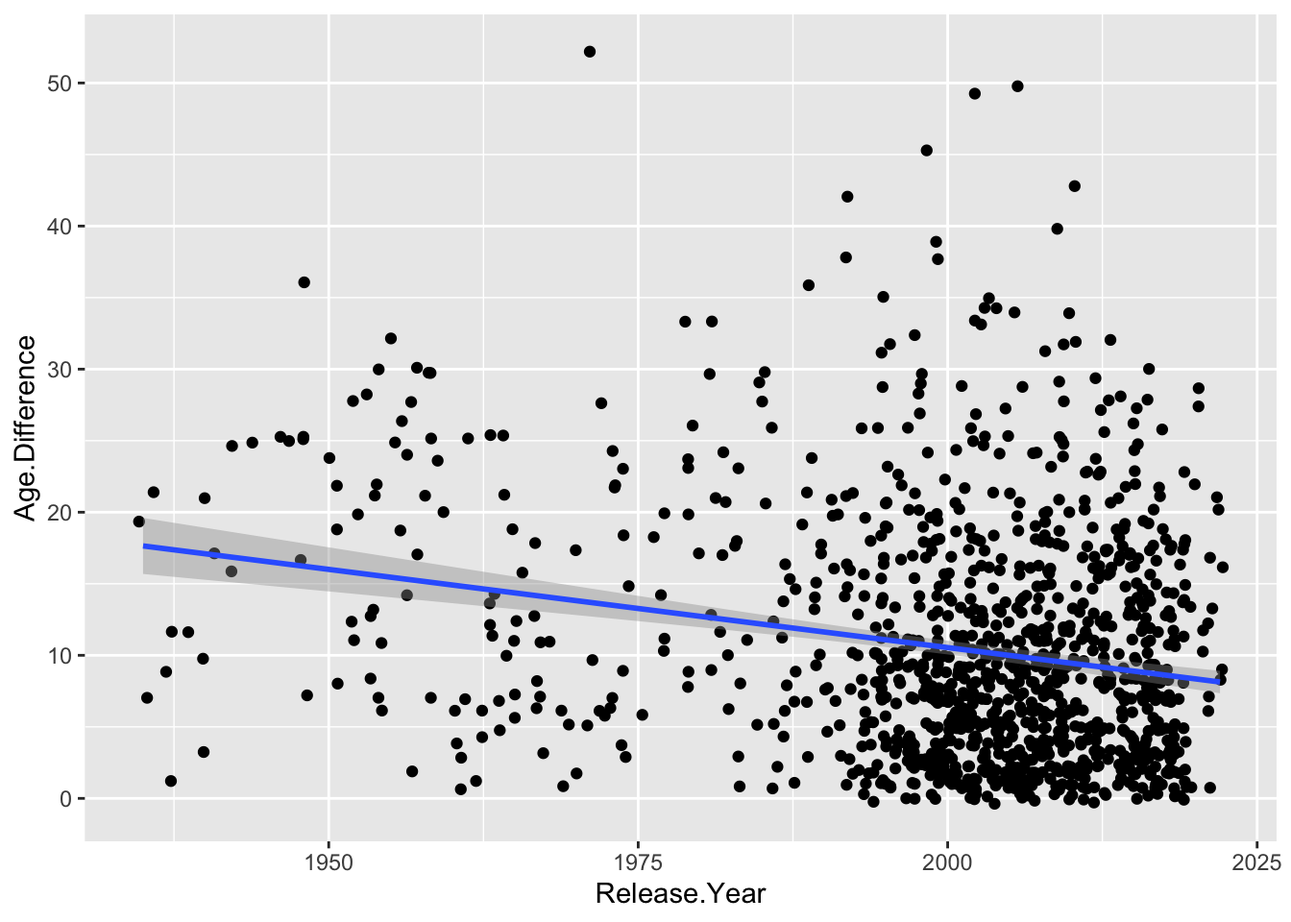
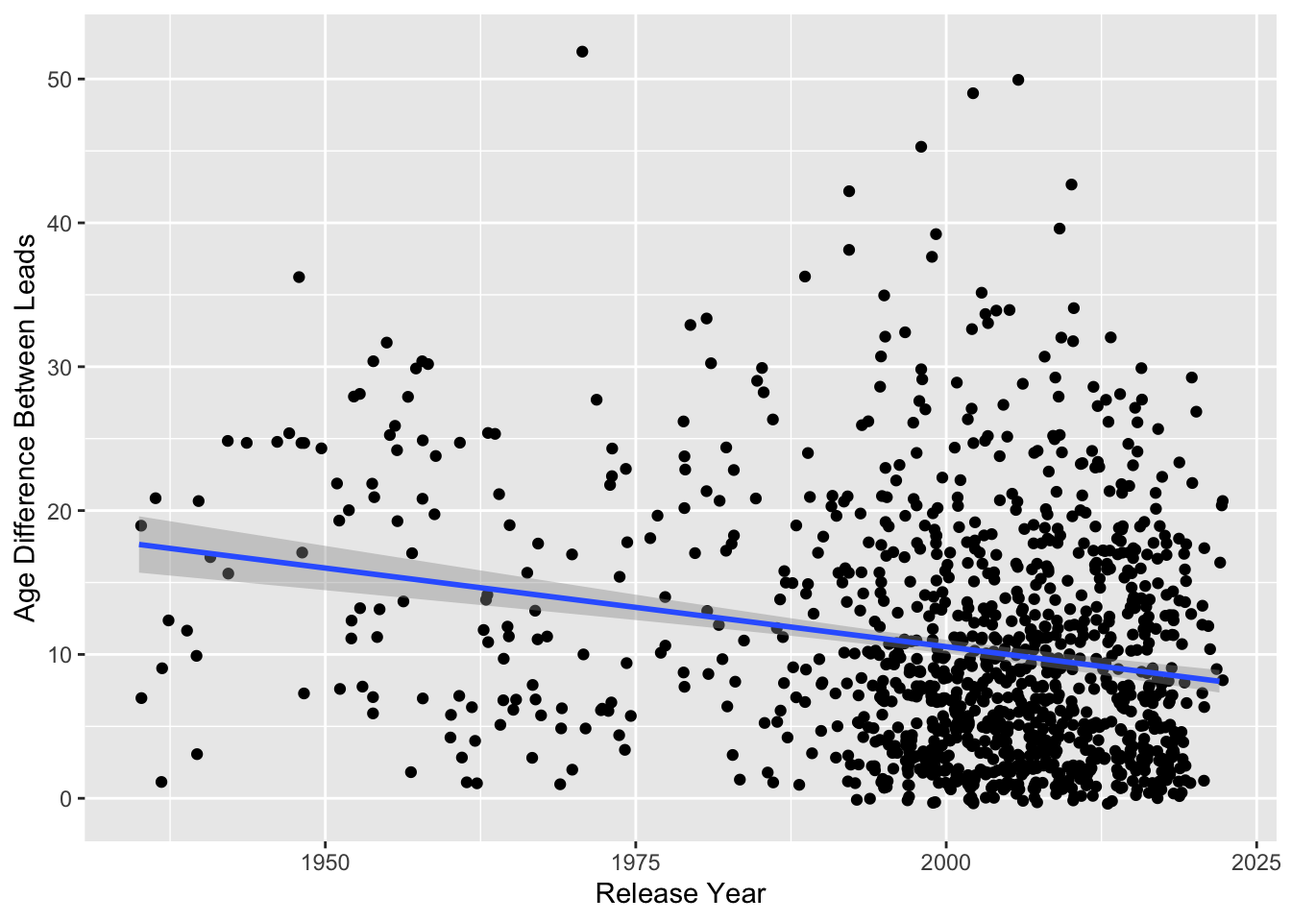
Touched up p05

diff --git a/docs/p05.html b/docs/p05.html
@@ -368,7 +368,9 @@ change over time:</p>
 <pre class="r"><code>movies %&gt;%
   ggplot(aes(x = Release.Year, y = Age.Difference)) + 
   geom_jitter() +
-  geom_smooth(method = &quot;lm&quot;)</code></pre>
+  geom_smooth(method = &quot;lm&quot;) +
+  labs(x = &quot;Release Year&quot;,
+       y = &quot;Age Difference Between Leads&quot;)</code></pre>
 <pre><code>## `geom_smooth()` using formula = &#39;y ~ x&#39;</code></pre>
 <p><img src="p05_files/figure-html/gap-over-time-1.png" width="672" /></p>
 <p>It looks like I was right! To follow down this road, let’s put
@@ -413,14 +415,18 @@ tidy(m_diff_year_gender)</code></pre>
 <pre class="r"><code>movies %&gt;%
   ggplot(aes(x = Release.Year, y = Age.Difference, color = Actor.1.Gender)) + 
   geom_jitter() +
-  geom_smooth(method = &quot;lm&quot;, fullrange = TRUE, se = FALSE)</code></pre>
+  geom_smooth(method = &quot;lm&quot;, fullrange = TRUE, se = FALSE) +
+  labs(x = &quot;Release Year&quot;,
+       y = &quot;Age Difference Between Leads&quot;)</code></pre>
 <pre><code>## `geom_smooth()` using formula = &#39;y ~ x&#39;</code></pre>
 <p><img src="p05_files/figure-html/lm-add-gender-1.png" width="672" /></p>
 <p>Looks like I wasn’t quite right. Descriptively, the older member of
 the pair being a woman does predict a smaller age gap, but neither this
 slope nor the interaction term are significant. Additionally, the
 adjusted R-squared basically doesn’t increase at all, so we’re clearly
-not explaining much more variance.</p>
+not explaining much more variance. This is probably because there just
+aren’ that many movies where the woman is the older member of a pair of
+leads.</p>
 <p>Finally, let’s replace the gender of the older member of the pair
 with the age of the older member of the pair. This model is bound to
 increase the amount of variance we can explain; large age gaps are only
@@ -451,8 +457,8 @@ tidy(m_diff_year_age)</code></pre>
   )) %&gt;%
   config(displayModeBar = FALSE)
 p</code></pre>
-<div class="plotly html-widget html-fill-item-overflow-hidden html-fill-item" id="htmlwidget-537e9be617acf20221d3" style="width:672px;height:480px;"></div>
-<script type="application/json" data-for="htmlwidget-537e9be617acf20221d3">{"x":{"visdat":{"65b5f2e10c4":["function () ","plotlyVisDat"]},"cur_data":"65b5f2e10c4","attrs":{"65b5f2e10c4":{"x":{},"y":{},"z":{},"marker":{"size":3,"color":"lightgray","alpha":0.5,"line":{"color":"gray","width":2}},"alpha_stroke":1,"sizes":[10,100],"spans":[1,20],"type":"scatter3d","mode":"markers","inherit":true}},"layout":{"margin":{"b":40,"l":60,"t":25,"r":10},"scene":{"xaxis":{"title":"Release Year"},"yaxis":{"title":"Age Difference"},"zaxis":{"title":"Older Actor Age"}},"hovermode":"closest","showlegend":false},"source":"A","config":{"modeBarButtonsToAdd":["hoverclosest","hovercompare"],"showSendToCloud":false,"displayModeBar":false},"data":[{"x":[1971,2006,2002,1998,2010,1992,2009,1999,1992,1999,1989,1948,1995,2003,2004,2003,2005,2010,1979,1981,2002,2003,1955,1997,1995,2010,2009,2013,2008,1995,1985,1998,1981,1957,1958,2016,1954,1958,2009,1985,2012,1998,2020,1995,2006,2001,1998,1985,1953,2016,2009,2013,1952,1972,1957,2014,2015,1998,2002,2012,2005,2020,1997,2013,2015,2002,1956,1994,1993,1979,2017,1986,2009,1963,2009,1947,1942,1948,2015,2003,2005,2003,2002,1948,1946,1961,1964,1955,1944,1958,2009,2001,2007,2004,2007,2012,1982,1950,1989,2015,1973,1979,1959,2009,1998,1956,2015,2012,2012,2019,1979,1983,1995,2012,2011,2008,1996,1974,2011,2000,1954,2015,1973,1973,1951,2017,2014,2020,2001,1996,1985,2017,1991,2006,2013,2014,1981,1995,1992,2009,2011,2004,1989,1936,1992,1964,1954,1995,1958,2022,1940,2001,1982,1997,2005,1999,2008,1993,2011,1991,1979,1959,2006,1998,1999,1991,1952,2008,1997,2022,2017,1977,2001,2010,2011,1999,1951,1956,2017,2014,1998,2006,2014,1995,2016,2009,2012,1935,2008,2007,2016,1995,2001,2002,1988,1965,2014,2009,2017,2019,2002,2018,2014,1994,1967,2008,1983,2007,1990,2008,2004,1999,2018,1999,1998,1983,2003,2014,2002,1976,1974,2011,1999,1995,2009,2008,2019,2013,1957,2015,1982,2004,2014,2021,1995,2018,1970,2019,1990,2015,2014,2015,2013,1948,1980,2012,2002,1999,2015,1998,1941,2003,2016,2011,2017,2000,2013,1997,1996,2012,2013,2015,1942,1992,2008,1995,2019,2007,2003,2003,1993,2008,2013,1991,2000,2012,2013,2006,1992,2015,2007,1987,2022,2008,2006,2012,1966,2013,2004,2002,2000,2016,1999,1987,1995,2015,2004,2002,2017,2012,1989,2007,2019,1997,2014,2008,2012,2010,2000,1992,1974,2008,2016,1988,1963,1998,2019,2019,2009,1992,2007,2006,2006,2016,1995,1963,1956,2015,2016,1989,2006,1999,2005,1977,2015,1995,2000,1993,2018,2000,2016,1987,2002,2011,2018,2001,1954,2015,2012,2018,2015,2002,2003,2020,2004,1996,1981,1998,2002,2015,2004,2003,2016,2013,2021,1953,1993,2016,2011,2006,2007,2006,2008,2018,1999,1999,1989,2018,2000,2015,2010,1967,2002,2016,2003,2007,2010,2006,2013,1986,1963,1939,1995,2007,2021,2016,2011,2011,1965,2010,1952,2021,2005,2004,1994,1937,2008,2012,1999,2016,2016,2017,2009,2018,2008,1982,2009,2013,2006,2018,1977,1987,2018,2001,1997,2006,1996,1963,2010,2007,1984,2011,2003,1999,2001,2003,2016,2005,1954,2001,2008,2008,1952,2012,2008,2018,2013,2001,1998,2011,1997,2007,2001,2002,2013,2007,2009,2016,1968,2013,1965,1997,2015,1995,2004,2004,2009,1967,2019,2008,2015,2008,1999,1995,2015,2002,1971,2012,1999,1998,1994,1990,2007,2003,1996,2003,1992,2004,2008,2013,2021,1964,1994,1940,2000,1977,2016,2004,2006,2002,2006,2004,1982,1996,2000,1994,2010,2014,1996,2006,2009,2011,2005,1993,2013,2004,2005,1937,2006,2001,1979,2008,1997,2016,2001,2001,1988,2017,2004,2006,2018,2008,2022,2009,2001,1995,2009,2009,2005,2010,1999,2013,2003,1997,1996,1999,2010,1981,1995,2003,2006,2002,1989,2016,2006,1974,2017,2008,1998,2014,1998,1997,2007,1998,2000,2009,2001,2017,2004,2003,2019,2013,1995,2013,2009,2011,2015,2015,2007,2016,1987,1990,2007,2016,1996,1953,2003,1993,2017,1994,2008,2003,1999,2012,1979,1998,1990,1983,1998,2007,2003,2005,2017,2000,2000,2002,2002,2018,1996,1951,1992,2005,2002,2012,2008,2009,2014,2006,2013,1998,1999,2013,1995,2022,2001,1967,1999,2018,2018,1999,2009,2002,1995,2018,2003,2016,1935,2000,1958,2006,1995,1995,1997,1997,2000,1991,2018,1988,2014,2014,2017,2015,1999,1995,1964,2014,1967,2017,2003,2009,1954,2021,2008,2006,2014,2001,2016,2004,2019,2005,2003,2007,2002,2008,2000,1993,1999,1999,2003,2000,1989,2001,2002,1948,2006,1996,2017,2008,2001,1961,2010,2016,1973,1998,1965,2000,1998,2001,1975,2002,2014,1982,2007,2011,2004,2014,1995,2001,1962,2002,2008,2009,2004,2005,2004,1960,1954,2001,2007,2007,2021,1969,2010,1987,2007,1993,2010,2008,1965,2017,2010,2001,2015,2008,2006,2007,1972,1972,1967,2006,2016,2010,2000,1973,2008,2005,2001,2004,2008,1985,2013,2018,2002,1999,1999,2012,1998,2017,2002,2016,2017,2005,2004,2003,2018,1990,2010,1994,2005,2007,2014,2008,1964,2009,2001,2001,2000,2004,2005,1991,2014,1971,2001,2012,1999,2003,2003,2002,1993,1969,2007,2001,2017,2009,2002,1996,1993,2002,2018,2012,2004,2017,2011,2012,2006,2004,2001,2000,2016,1999,2013,1986,2011,1994,2004,2017,2009,2019,2007,2011,1995,1995,2002,2000,2004,1999,2004,2015,2005,1997,1997,2009,2015,2016,1997,2002,1974,2015,1962,2018,2009,1997,1996,2000,2016,2007,2011,2009,2007,2007,1960,2010,2008,2000,2019,2001,1997,2018,2007,2008,2018,1997,1997,2011,2015,2011,2002,2018,2018,2002,1994,2003,1987,1996,1995,1997,2012,2008,2002,2005,1993,2015,2009,2000,1974,2009,1999,2012,2007,1996,2016,2015,1998,2004,2000,2000,2016,2013,1998,1999,1999,1997,2008,2003,2016,2009,1940,1997,1997,1999,2005,2016,2016,1997,2006,2007,2011,2007,1961,2012,1997,1989,2008,2016,1999,2012,2003,2014,2018,1996,2013,2016,2017,1999,2018,1983,1991,2007,2014,1999,1998,2018,1997,2018,2005,2015,2000,2014,2008,2006,2017,2014,2018,2012,1967,2012,1999,2017,2018,1999,2012,2015,2008,2008,2019,2005,1992,2018,2003,1999,2014,2018,1999,1994,2019,2014,2003,2018,1997,2016,1999,2011,2005,2005,2011,2011,2007,1993,2016,1986,1999,2010,1994,2007,2001,2016,2015,1994,2011,2002,2011,2005,1997,2003,2015,2006,2010,1957,2001,2000,2000,2010,1970,2003,1999,2003,2012,2018,2005,1998,2008,1998,1992,2006,2019,2018,2018,2000,2004,1996,2007,2007,2011,2006,2015,2010,1997,1999,2004,2014,2014,2009,2009,2012,1999,2009,2011,2006,2008,2017,2010,2005,2002,2016,2009,1986,2001,2001,2008,2017,2007,1995,1997,1961,2017,2005,2005,2011,2000,1988,2004,1962,2005,1995,1995,2017,2014,2001,2009,2005,2021,2010,1993,2007,1995,2017,2004,2010,2019,2000,2017,2016,2002,1969,2001,2005,2002,2000,2014,1983,1995,2005,2018,2002,2009,1937,2007,2002,2004,2006,2006,2011,2007,1992,2015,2006,2002,2014,1999,2012,1997,1995,2011,2004,2002,2017,2020,2017,2015,2009,2019,1999,2017,2018,2013,1999,2010,2002,2002,2007,2002,1997,2009,2002,2012,2016,2003,2011,2010,2002,1997,2004,1994,2019,1993,2006,2013,2006,2019,2007,2015],"y":[52,50,49,45,43,42,40,39,38,38,36,36,35,35,34,34,34,34,33,33,33,33,32,32,32,32,32,32,31,31,30,30,30,30,30,30,30,30,29,29,29,29,29,29,29,29,28,28,28,28,28,28,28,28,28,28,27,27,27,27,27,27,26,26,26,26,26,26,26,26,26,26,25,25,25,25,25,25,25,25,25,25,25,25,25,25,25,25,25,25,25,24,24,24,24,24,24,24,24,24,24,24,24,24,24,24,23,23,23,23,23,23,23,23,23,23,23,23,23,22,22,22,22,22,22,22,22,22,22,22,21,21,21,21,21,21,21,21,21,21,21,21,21,21,21,21,21,21,21,21,21,21,21,21,21,20,20,20,20,20,20,20,20,20,20,20,20,20,20,20,20,20,20,20,20,19,19,19,19,19,19,19,19,19,19,19,19,19,19,19,19,19,19,19,19,19,19,18,18,18,18,18,18,18,18,18,18,18,18,18,18,18,18,18,18,18,18,18,18,18,18,18,18,18,18,18,18,17,17,17,17,17,17,17,17,17,17,17,17,17,17,17,17,17,17,17,17,17,17,17,17,17,17,17,17,17,17,17,17,16,16,16,16,16,16,16,16,16,16,16,16,16,16,16,16,16,16,16,16,16,16,16,16,16,16,16,16,16,16,16,16,16,15,15,15,15,15,15,15,15,15,15,15,15,15,15,15,15,15,15,15,15,15,15,14,14,14,14,14,14,14,14,14,14,14,14,14,14,14,14,14,14,14,14,14,14,14,14,14,14,14,14,14,14,14,13,13,13,13,13,13,13,13,13,13,13,13,13,13,13,13,13,13,13,13,13,13,13,13,13,13,13,13,13,13,13,13,13,13,13,13,13,12,12,12,12,12,12,12,12,12,12,12,12,12,12,12,12,12,12,12,12,12,12,12,12,12,12,12,12,12,12,12,12,12,12,12,12,11,11,11,11,11,11,11,11,11,11,11,11,11,11,11,11,11,11,11,11,11,11,11,11,11,11,11,11,11,11,11,11,11,11,11,11,11,11,11,11,11,11,11,11,11,11,11,11,11,11,11,10,10,10,10,10,10,10,10,10,10,10,10,10,10,10,10,10,10,10,10,10,10,10,10,10,10,10,10,10,10,10,10,10,10,10,10,10,10,10,10,10,10,10,10,10,9,9,9,9,9,9,9,9,9,9,9,9,9,9,9,9,9,9,9,9,9,9,9,9,9,9,9,9,9,9,9,9,9,9,9,9,9,9,9,9,9,9,9,9,9,9,9,9,9,9,9,9,9,8,8,8,8,8,8,8,8,8,8,8,8,8,8,8,8,8,8,8,8,8,8,8,8,8,8,8,8,8,8,8,8,8,8,8,8,8,8,8,8,8,8,8,8,8,8,8,8,8,8,8,8,8,8,8,8,8,8,8,7,7,7,7,7,7,7,7,7,7,7,7,7,7,7,7,7,7,7,7,7,7,7,7,7,7,7,7,7,7,7,7,7,7,7,7,7,7,7,7,7,7,7,7,7,7,7,7,7,7,7,7,7,7,7,7,7,7,7,7,7,7,7,7,7,7,7,7,7,7,7,6,6,6,6,6,6,6,6,6,6,6,6,6,6,6,6,6,6,6,6,6,6,6,6,6,6,6,6,6,6,6,6,6,6,6,6,6,6,6,6,6,6,6,6,6,6,6,6,6,6,5,5,5,5,5,5,5,5,5,5,5,5,5,5,5,5,5,5,5,5,5,5,5,5,5,5,5,5,5,5,5,5,5,5,5,5,5,5,5,5,5,5,5,5,5,5,5,5,5,5,5,5,5,5,5,5,5,5,5,5,5,5,5,5,5,5,5,5,5,5,5,4,4,4,4,4,4,4,4,4,4,4,4,4,4,4,4,4,4,4,4,4,4,4,4,4,4,4,4,4,4,4,4,4,4,4,4,4,4,4,4,4,4,4,4,4,4,4,4,4,4,4,4,4,4,4,4,4,4,4,4,4,4,4,4,4,4,3,3,3,3,3,3,3,3,3,3,3,3,3,3,3,3,3,3,3,3,3,3,3,3,3,3,3,3,3,3,3,3,3,3,3,3,3,3,3,3,3,3,3,3,3,3,3,3,3,3,3,3,3,3,3,3,3,3,3,3,3,3,3,3,3,3,3,3,3,3,3,3,3,3,3,3,3,3,3,3,3,3,3,3,3,2,2,2,2,2,2,2,2,2,2,2,2,2,2,2,2,2,2,2,2,2,2,2,2,2,2,2,2,2,2,2,2,2,2,2,2,2,2,2,2,2,2,2,2,2,2,2,2,2,2,2,2,2,2,2,2,2,2,2,2,2,2,2,2,2,2,2,2,2,2,2,2,2,2,2,2,2,2,2,2,2,2,2,2,2,1,1,1,1,1,1,1,1,1,1,1,1,1,1,1,1,1,1,1,1,1,1,1,1,1,1,1,1,1,1,1,1,1,1,1,1,1,1,1,1,1,1,1,1,1,1,1,1,1,1,1,1,1,1,1,1,1,1,1,1,1,1,1,1,1,1,1,1,1,1,1,1,1,1,1,1,1,0,0,0,0,0,0,0,0,0,0,0,0,0,0,0,0,0,0,0,0,0,0,0,0,0,0,0,0,0,0],"z":[23,74,69,68,81,59,62,69,57,77,59,56,65,66,56,53,60,61,78,56,67,68,56,49,60,67,75,61,65,60,58,60,54,58,54,59,55,50,49,58,63,61,62,49,69,46,54,58,54,54,60,53,51,48,56,54,55,56,26,53,50,62,60,69,52,49,53,53,57,44,60,61,60,59,49,48,45,49,51,57,58,54,50,48,47,60,53,51,45,50,58,58,53,45,57,49,47,51,47,51,46,52,52,54,62,51,79,47,58,52,52,56,53,50,57,46,47,52,48,51,47,47,46,46,48,55,44,49,51,60,58,43,54,52,32,52,54,52,58,51,45,40,43,47,49,56,46,56,57,47,51,71,57,44,45,40,46,46,42,46,52,55,17,47,44,49,40,46,42,46,64,50,47,60,55,19,39,44,46,45,37,64,42,48,48,49,44,43,44,49,45,65,43,53,62,43,51,49,48,55,39,47,58,39,40,48,56,37,41,40,43,57,54,50,48,43,39,64,26,46,47,43,46,57,62,46,58,49,53,48,40,40,59,45,42,60,41,45,43,51,46,47,51,44,37,54,42,36,47,48,36,53,45,43,27,45,45,50,39,51,39,46,43,44,65,46,47,41,43,43,42,59,46,49,46,50,41,38,53,39,44,43,42,40,38,46,36,39,41,53,58,38,51,35,52,47,37,51,26,38,43,47,45,43,39,37,37,49,37,34,47,18,62,46,39,40,56,51,38,48,37,39,39,44,48,33,41,41,45,36,44,44,50,35,44,51,26,31,44,36,40,41,34,41,42,50,45,40,40,37,59,49,36,37,42,37,46,40,48,38,36,57,57,35,49,37,41,37,41,37,42,37,40,49,44,46,41,66,56,38,47,37,37,53,48,35,39,38,43,39,33,38,55,42,52,60,45,34,41,37,32,37,42,40,33,42,56,41,36,45,45,49,33,47,56,45,48,50,42,43,42,35,29,38,26,45,35,33,46,38,42,55,39,44,46,32,37,31,36,31,40,54,40,44,54,57,35,37,49,40,33,43,34,22,39,42,48,39,38,39,35,44,37,42,33,32,40,37,36,40,46,42,37,39,44,33,41,45,38,33,38,38,43,43,39,34,57,37,42,58,46,21,39,33,40,41,35,38,39,36,38,30,46,34,36,32,46,47,35,32,41,25,37,30,37,38,47,40,28,34,54,34,47,56,41,41,33,31,32,39,45,42,51,34,31,36,47,51,38,34,35,30,30,34,31,33,55,39,32,66,41,35,40,37,36,38,30,37,38,33,32,44,42,34,27,41,22,53,20,32,45,31,36,28,57,31,34,48,35,45,35,27,41,40,32,40,27,43,35,33,47,26,34,32,41,35,36,40,37,41,26,27,38,47,41,34,41,27,27,52,37,43,34,38,39,45,49,32,48,32,46,40,31,60,23,37,41,58,39,36,30,33,29,42,41,33,26,44,33,40,21,26,33,28,45,36,54,33,30,35,35,33,44,47,34,42,67,48,29,40,40,33,43,44,50,33,47,51,37,41,32,39,40,30,38,40,31,39,41,24,37,35,27,48,39,26,42,30,28,36,43,37,48,33,35,44,34,37,39,24,39,33,28,32,26,48,35,36,32,38,38,43,29,37,26,35,39,23,39,39,46,30,30,23,26,31,36,18,36,21,41,25,34,45,30,36,48,32,30,37,37,50,36,37,40,35,36,37,35,42,30,32,33,19,21,22,26,23,24,35,42,41,32,31,31,28,30,31,28,45,31,33,34,34,25,47,22,32,32,46,34,41,30,41,34,41,28,36,42,30,38,23,35,28,30,22,37,31,47,29,30,39,40,41,36,31,55,31,52,28,35,24,30,38,26,37,26,36,38,30,31,31,32,30,39,21,37,44,31,33,26,25,25,33,25,37,37,34,32,38,41,31,30,21,42,42,30,64,52,25,36,32,55,35,23,30,34,35,33,47,54,23,29,31,47,39,32,52,44,37,36,32,25,32,37,36,32,22,42,31,30,28,26,32,47,38,44,63,28,25,50,29,34,40,27,24,40,32,30,30,36,28,28,31,33,37,36,23,21,21,32,26,36,23,35,38,45,38,20,30,35,35,35,27,39,26,25,32,32,35,19,38,38,33,22,21,36,17,38,23,32,29,34,47,43,25,27,41,34,36,32,20,27,32,30,25,35,27,38,44,37,37,23,24,33,30,31,37,24,20,35,31,32,32,28,70,37,39,34,34,33,40,25,26,53,49,45,46,40,39,30,24,31,34,29,34,31,34,30,28,48,27,29,30,36,38,34,38,23,34,27,30,29,34,32,32,25,29,38,30,44,28,39,37,53,40,44,26,26,36,44,63,43,36,23,52,28,31,24,44,44,45,17,32,26,28,28,28,35,40,17,31,46,60,28,34,22,33,40,30,60,25,33,33,34,26,25,30,37,26,34,32,31,35,26,28,35,37,35,36,30,36,32,19,27,22,24,37,36,37,27,48,41,30,29,25,36,29,35,19,35,25,46,24,32,18,25,54,30,36,32,36,31,35,33,37,30,32,46,35,23,31,25,27,36,40,38,49,26,21,29,18,45,31,39,20,30,28,33,35,31,27,31,32,32,30,25,26,28,22,34,38,30,23,31,34,23,42,30,21,36],"marker":{"color":"lightgray","size":3,"alpha":0.5,"line":{"color":"gray","width":2}},"type":"scatter3d","mode":"markers","error_y":{"color":"rgba(31,119,180,1)"},"error_x":{"color":"rgba(31,119,180,1)"},"line":{"color":"rgba(31,119,180,1)"},"frame":null}],"highlight":{"on":"plotly_click","persistent":false,"dynamic":false,"selectize":false,"opacityDim":0.2,"selected":{"opacity":1},"debounce":0},"shinyEvents":["plotly_hover","plotly_click","plotly_selected","plotly_relayout","plotly_brushed","plotly_brushing","plotly_clickannotation","plotly_doubleclick","plotly_deselect","plotly_afterplot","plotly_sunburstclick"],"base_url":"https://plot.ly"},"evals":[],"jsHooks":[]}</script>
+<div class="plotly html-widget html-fill-item-overflow-hidden html-fill-item" id="htmlwidget-2fe22d189e506f6b7bcd" style="width:672px;height:480px;"></div>
+<script type="application/json" data-for="htmlwidget-2fe22d189e506f6b7bcd">{"x":{"visdat":{"d6542edf0638":["function () ","plotlyVisDat"]},"cur_data":"d6542edf0638","attrs":{"d6542edf0638":{"x":{},"y":{},"z":{},"marker":{"size":3,"color":"lightgray","alpha":0.5,"line":{"color":"gray","width":2}},"alpha_stroke":1,"sizes":[10,100],"spans":[1,20],"type":"scatter3d","mode":"markers","inherit":true}},"layout":{"margin":{"b":40,"l":60,"t":25,"r":10},"scene":{"xaxis":{"title":"Release Year"},"yaxis":{"title":"Age Difference"},"zaxis":{"title":"Older Actor Age"}},"hovermode":"closest","showlegend":false},"source":"A","config":{"modeBarButtonsToAdd":["hoverclosest","hovercompare"],"showSendToCloud":false,"displayModeBar":false},"data":[{"x":[1971,2006,2002,1998,2010,1992,2009,1999,1992,1999,1989,1948,1995,2003,2004,2003,2005,2010,1979,1981,2002,2003,1955,1997,1995,2010,2009,2013,2008,1995,1985,1998,1981,1957,1958,2016,1954,1958,2009,1985,2012,1998,2020,1995,2006,2001,1998,1985,1953,2016,2009,2013,1952,1972,1957,2014,2015,1998,2002,2012,2005,2020,1997,2013,2015,2002,1956,1994,1993,1979,2017,1986,2009,1963,2009,1947,1942,1948,2015,2003,2005,2003,2002,1948,1946,1961,1964,1955,1944,1958,2009,2001,2007,2004,2007,2012,1982,1950,1989,2015,1973,1979,1959,2009,1998,1956,2015,2012,2012,2019,1979,1983,1995,2012,2011,2008,1996,1974,2011,2000,1954,2015,1973,1973,1951,2017,2014,2020,2001,1996,1985,2017,1991,2006,2013,2014,1981,1995,1992,2009,2011,2004,1989,1936,1992,1964,1954,1995,1958,2022,1940,2001,1982,1997,2005,1999,2008,1993,2011,1991,1979,1959,2006,1998,1999,1991,1952,2008,1997,2022,2017,1977,2001,2010,2011,1999,1951,1956,2017,2014,1998,2006,2014,1995,2016,2009,2012,1935,2008,2007,2016,1995,2001,2002,1988,1965,2014,2009,2017,2019,2002,2018,2014,1994,1967,2008,1983,2007,1990,2008,2004,1999,2018,1999,1998,1983,2003,2014,2002,1976,1974,2011,1999,1995,2009,2008,2019,2013,1957,2015,1982,2004,2014,2021,1995,2018,1970,2019,1990,2015,2014,2015,2013,1948,1980,2012,2002,1999,2015,1998,1941,2003,2016,2011,2017,2000,2013,1997,1996,2012,2013,2015,1942,1992,2008,1995,2019,2007,2003,2003,1993,2008,2013,1991,2000,2012,2013,2006,1992,2015,2007,1987,2022,2008,2006,2012,1966,2013,2004,2002,2000,2016,1999,1987,1995,2015,2004,2002,2017,2012,1989,2007,2019,1997,2014,2008,2012,2010,2000,1992,1974,2008,2016,1988,1963,1998,2019,2019,2009,1992,2007,2006,2006,2016,1995,1963,1956,2015,2016,1989,2006,1999,2005,1977,2015,1995,2000,1993,2018,2000,2016,1987,2002,2011,2018,2001,1954,2015,2012,2018,2015,2002,2003,2020,2004,1996,1981,1998,2002,2015,2004,2003,2016,2013,2021,1953,1993,2016,2011,2006,2007,2006,2008,2018,1999,1999,1989,2018,2000,2015,2010,1967,2002,2016,2003,2007,2010,2006,2013,1986,1963,1939,1995,2007,2021,2016,2011,2011,1965,2010,1952,2021,2005,2004,1994,1937,2008,2012,1999,2016,2016,2017,2009,2018,2008,1982,2009,2013,2006,2018,1977,1987,2018,2001,1997,2006,1996,1963,2010,2007,1984,2011,2003,1999,2001,2003,2016,2005,1954,2001,2008,2008,1952,2012,2008,2018,2013,2001,1998,2011,1997,2007,2001,2002,2013,2007,2009,2016,1968,2013,1965,1997,2015,1995,2004,2004,2009,1967,2019,2008,2015,2008,1999,1995,2015,2002,1971,2012,1999,1998,1994,1990,2007,2003,1996,2003,1992,2004,2008,2013,2021,1964,1994,1940,2000,1977,2016,2004,2006,2002,2006,2004,1982,1996,2000,1994,2010,2014,1996,2006,2009,2011,2005,1993,2013,2004,2005,1937,2006,2001,1979,2008,1997,2016,2001,2001,1988,2017,2004,2006,2018,2008,2022,2009,2001,1995,2009,2009,2005,2010,1999,2013,2003,1997,1996,1999,2010,1981,1995,2003,2006,2002,1989,2016,2006,1974,2017,2008,1998,2014,1998,1997,2007,1998,2000,2009,2001,2017,2004,2003,2019,2013,1995,2013,2009,2011,2015,2015,2007,2016,1987,1990,2007,2016,1996,1953,2003,1993,2017,1994,2008,2003,1999,2012,1979,1998,1990,1983,1998,2007,2003,2005,2017,2000,2000,2002,2002,2018,1996,1951,1992,2005,2002,2012,2008,2009,2014,2006,2013,1998,1999,2013,1995,2022,2001,1967,1999,2018,2018,1999,2009,2002,1995,2018,2003,2016,1935,2000,1958,2006,1995,1995,1997,1997,2000,1991,2018,1988,2014,2014,2017,2015,1999,1995,1964,2014,1967,2017,2003,2009,1954,2021,2008,2006,2014,2001,2016,2004,2019,2005,2003,2007,2002,2008,2000,1993,1999,1999,2003,2000,1989,2001,2002,1948,2006,1996,2017,2008,2001,1961,2010,2016,1973,1998,1965,2000,1998,2001,1975,2002,2014,1982,2007,2011,2004,2014,1995,2001,1962,2002,2008,2009,2004,2005,2004,1960,1954,2001,2007,2007,2021,1969,2010,1987,2007,1993,2010,2008,1965,2017,2010,2001,2015,2008,2006,2007,1972,1972,1967,2006,2016,2010,2000,1973,2008,2005,2001,2004,2008,1985,2013,2018,2002,1999,1999,2012,1998,2017,2002,2016,2017,2005,2004,2003,2018,1990,2010,1994,2005,2007,2014,2008,1964,2009,2001,2001,2000,2004,2005,1991,2014,1971,2001,2012,1999,2003,2003,2002,1993,1969,2007,2001,2017,2009,2002,1996,1993,2002,2018,2012,2004,2017,2011,2012,2006,2004,2001,2000,2016,1999,2013,1986,2011,1994,2004,2017,2009,2019,2007,2011,1995,1995,2002,2000,2004,1999,2004,2015,2005,1997,1997,2009,2015,2016,1997,2002,1974,2015,1962,2018,2009,1997,1996,2000,2016,2007,2011,2009,2007,2007,1960,2010,2008,2000,2019,2001,1997,2018,2007,2008,2018,1997,1997,2011,2015,2011,2002,2018,2018,2002,1994,2003,1987,1996,1995,1997,2012,2008,2002,2005,1993,2015,2009,2000,1974,2009,1999,2012,2007,1996,2016,2015,1998,2004,2000,2000,2016,2013,1998,1999,1999,1997,2008,2003,2016,2009,1940,1997,1997,1999,2005,2016,2016,1997,2006,2007,2011,2007,1961,2012,1997,1989,2008,2016,1999,2012,2003,2014,2018,1996,2013,2016,2017,1999,2018,1983,1991,2007,2014,1999,1998,2018,1997,2018,2005,2015,2000,2014,2008,2006,2017,2014,2018,2012,1967,2012,1999,2017,2018,1999,2012,2015,2008,2008,2019,2005,1992,2018,2003,1999,2014,2018,1999,1994,2019,2014,2003,2018,1997,2016,1999,2011,2005,2005,2011,2011,2007,1993,2016,1986,1999,2010,1994,2007,2001,2016,2015,1994,2011,2002,2011,2005,1997,2003,2015,2006,2010,1957,2001,2000,2000,2010,1970,2003,1999,2003,2012,2018,2005,1998,2008,1998,1992,2006,2019,2018,2018,2000,2004,1996,2007,2007,2011,2006,2015,2010,1997,1999,2004,2014,2014,2009,2009,2012,1999,2009,2011,2006,2008,2017,2010,2005,2002,2016,2009,1986,2001,2001,2008,2017,2007,1995,1997,1961,2017,2005,2005,2011,2000,1988,2004,1962,2005,1995,1995,2017,2014,2001,2009,2005,2021,2010,1993,2007,1995,2017,2004,2010,2019,2000,2017,2016,2002,1969,2001,2005,2002,2000,2014,1983,1995,2005,2018,2002,2009,1937,2007,2002,2004,2006,2006,2011,2007,1992,2015,2006,2002,2014,1999,2012,1997,1995,2011,2004,2002,2017,2020,2017,2015,2009,2019,1999,2017,2018,2013,1999,2010,2002,2002,2007,2002,1997,2009,2002,2012,2016,2003,2011,2010,2002,1997,2004,1994,2019,1993,2006,2013,2006,2019,2007,2015],"y":[52,50,49,45,43,42,40,39,38,38,36,36,35,35,34,34,34,34,33,33,33,33,32,32,32,32,32,32,31,31,30,30,30,30,30,30,30,30,29,29,29,29,29,29,29,29,28,28,28,28,28,28,28,28,28,28,27,27,27,27,27,27,26,26,26,26,26,26,26,26,26,26,25,25,25,25,25,25,25,25,25,25,25,25,25,25,25,25,25,25,25,24,24,24,24,24,24,24,24,24,24,24,24,24,24,24,23,23,23,23,23,23,23,23,23,23,23,23,23,22,22,22,22,22,22,22,22,22,22,22,21,21,21,21,21,21,21,21,21,21,21,21,21,21,21,21,21,21,21,21,21,21,21,21,21,20,20,20,20,20,20,20,20,20,20,20,20,20,20,20,20,20,20,20,20,19,19,19,19,19,19,19,19,19,19,19,19,19,19,19,19,19,19,19,19,19,19,18,18,18,18,18,18,18,18,18,18,18,18,18,18,18,18,18,18,18,18,18,18,18,18,18,18,18,18,18,18,17,17,17,17,17,17,17,17,17,17,17,17,17,17,17,17,17,17,17,17,17,17,17,17,17,17,17,17,17,17,17,17,16,16,16,16,16,16,16,16,16,16,16,16,16,16,16,16,16,16,16,16,16,16,16,16,16,16,16,16,16,16,16,16,16,15,15,15,15,15,15,15,15,15,15,15,15,15,15,15,15,15,15,15,15,15,15,14,14,14,14,14,14,14,14,14,14,14,14,14,14,14,14,14,14,14,14,14,14,14,14,14,14,14,14,14,14,14,13,13,13,13,13,13,13,13,13,13,13,13,13,13,13,13,13,13,13,13,13,13,13,13,13,13,13,13,13,13,13,13,13,13,13,13,13,12,12,12,12,12,12,12,12,12,12,12,12,12,12,12,12,12,12,12,12,12,12,12,12,12,12,12,12,12,12,12,12,12,12,12,12,11,11,11,11,11,11,11,11,11,11,11,11,11,11,11,11,11,11,11,11,11,11,11,11,11,11,11,11,11,11,11,11,11,11,11,11,11,11,11,11,11,11,11,11,11,11,11,11,11,11,11,10,10,10,10,10,10,10,10,10,10,10,10,10,10,10,10,10,10,10,10,10,10,10,10,10,10,10,10,10,10,10,10,10,10,10,10,10,10,10,10,10,10,10,10,10,9,9,9,9,9,9,9,9,9,9,9,9,9,9,9,9,9,9,9,9,9,9,9,9,9,9,9,9,9,9,9,9,9,9,9,9,9,9,9,9,9,9,9,9,9,9,9,9,9,9,9,9,9,8,8,8,8,8,8,8,8,8,8,8,8,8,8,8,8,8,8,8,8,8,8,8,8,8,8,8,8,8,8,8,8,8,8,8,8,8,8,8,8,8,8,8,8,8,8,8,8,8,8,8,8,8,8,8,8,8,8,8,7,7,7,7,7,7,7,7,7,7,7,7,7,7,7,7,7,7,7,7,7,7,7,7,7,7,7,7,7,7,7,7,7,7,7,7,7,7,7,7,7,7,7,7,7,7,7,7,7,7,7,7,7,7,7,7,7,7,7,7,7,7,7,7,7,7,7,7,7,7,7,6,6,6,6,6,6,6,6,6,6,6,6,6,6,6,6,6,6,6,6,6,6,6,6,6,6,6,6,6,6,6,6,6,6,6,6,6,6,6,6,6,6,6,6,6,6,6,6,6,6,5,5,5,5,5,5,5,5,5,5,5,5,5,5,5,5,5,5,5,5,5,5,5,5,5,5,5,5,5,5,5,5,5,5,5,5,5,5,5,5,5,5,5,5,5,5,5,5,5,5,5,5,5,5,5,5,5,5,5,5,5,5,5,5,5,5,5,5,5,5,5,4,4,4,4,4,4,4,4,4,4,4,4,4,4,4,4,4,4,4,4,4,4,4,4,4,4,4,4,4,4,4,4,4,4,4,4,4,4,4,4,4,4,4,4,4,4,4,4,4,4,4,4,4,4,4,4,4,4,4,4,4,4,4,4,4,4,3,3,3,3,3,3,3,3,3,3,3,3,3,3,3,3,3,3,3,3,3,3,3,3,3,3,3,3,3,3,3,3,3,3,3,3,3,3,3,3,3,3,3,3,3,3,3,3,3,3,3,3,3,3,3,3,3,3,3,3,3,3,3,3,3,3,3,3,3,3,3,3,3,3,3,3,3,3,3,3,3,3,3,3,3,2,2,2,2,2,2,2,2,2,2,2,2,2,2,2,2,2,2,2,2,2,2,2,2,2,2,2,2,2,2,2,2,2,2,2,2,2,2,2,2,2,2,2,2,2,2,2,2,2,2,2,2,2,2,2,2,2,2,2,2,2,2,2,2,2,2,2,2,2,2,2,2,2,2,2,2,2,2,2,2,2,2,2,2,2,1,1,1,1,1,1,1,1,1,1,1,1,1,1,1,1,1,1,1,1,1,1,1,1,1,1,1,1,1,1,1,1,1,1,1,1,1,1,1,1,1,1,1,1,1,1,1,1,1,1,1,1,1,1,1,1,1,1,1,1,1,1,1,1,1,1,1,1,1,1,1,1,1,1,1,1,1,0,0,0,0,0,0,0,0,0,0,0,0,0,0,0,0,0,0,0,0,0,0,0,0,0,0,0,0,0,0],"z":[23,74,69,68,81,59,62,69,57,77,59,56,65,66,56,53,60,61,78,56,67,68,56,49,60,67,75,61,65,60,58,60,54,58,54,59,55,50,49,58,63,61,62,49,69,46,54,58,54,54,60,53,51,48,56,54,55,56,26,53,50,62,60,69,52,49,53,53,57,44,60,61,60,59,49,48,45,49,51,57,58,54,50,48,47,60,53,51,45,50,58,58,53,45,57,49,47,51,47,51,46,52,52,54,62,51,79,47,58,52,52,56,53,50,57,46,47,52,48,51,47,47,46,46,48,55,44,49,51,60,58,43,54,52,32,52,54,52,58,51,45,40,43,47,49,56,46,56,57,47,51,71,57,44,45,40,46,46,42,46,52,55,17,47,44,49,40,46,42,46,64,50,47,60,55,19,39,44,46,45,37,64,42,48,48,49,44,43,44,49,45,65,43,53,62,43,51,49,48,55,39,47,58,39,40,48,56,37,41,40,43,57,54,50,48,43,39,64,26,46,47,43,46,57,62,46,58,49,53,48,40,40,59,45,42,60,41,45,43,51,46,47,51,44,37,54,42,36,47,48,36,53,45,43,27,45,45,50,39,51,39,46,43,44,65,46,47,41,43,43,42,59,46,49,46,50,41,38,53,39,44,43,42,40,38,46,36,39,41,53,58,38,51,35,52,47,37,51,26,38,43,47,45,43,39,37,37,49,37,34,47,18,62,46,39,40,56,51,38,48,37,39,39,44,48,33,41,41,45,36,44,44,50,35,44,51,26,31,44,36,40,41,34,41,42,50,45,40,40,37,59,49,36,37,42,37,46,40,48,38,36,57,57,35,49,37,41,37,41,37,42,37,40,49,44,46,41,66,56,38,47,37,37,53,48,35,39,38,43,39,33,38,55,42,52,60,45,34,41,37,32,37,42,40,33,42,56,41,36,45,45,49,33,47,56,45,48,50,42,43,42,35,29,38,26,45,35,33,46,38,42,55,39,44,46,32,37,31,36,31,40,54,40,44,54,57,35,37,49,40,33,43,34,22,39,42,48,39,38,39,35,44,37,42,33,32,40,37,36,40,46,42,37,39,44,33,41,45,38,33,38,38,43,43,39,34,57,37,42,58,46,21,39,33,40,41,35,38,39,36,38,30,46,34,36,32,46,47,35,32,41,25,37,30,37,38,47,40,28,34,54,34,47,56,41,41,33,31,32,39,45,42,51,34,31,36,47,51,38,34,35,30,30,34,31,33,55,39,32,66,41,35,40,37,36,38,30,37,38,33,32,44,42,34,27,41,22,53,20,32,45,31,36,28,57,31,34,48,35,45,35,27,41,40,32,40,27,43,35,33,47,26,34,32,41,35,36,40,37,41,26,27,38,47,41,34,41,27,27,52,37,43,34,38,39,45,49,32,48,32,46,40,31,60,23,37,41,58,39,36,30,33,29,42,41,33,26,44,33,40,21,26,33,28,45,36,54,33,30,35,35,33,44,47,34,42,67,48,29,40,40,33,43,44,50,33,47,51,37,41,32,39,40,30,38,40,31,39,41,24,37,35,27,48,39,26,42,30,28,36,43,37,48,33,35,44,34,37,39,24,39,33,28,32,26,48,35,36,32,38,38,43,29,37,26,35,39,23,39,39,46,30,30,23,26,31,36,18,36,21,41,25,34,45,30,36,48,32,30,37,37,50,36,37,40,35,36,37,35,42,30,32,33,19,21,22,26,23,24,35,42,41,32,31,31,28,30,31,28,45,31,33,34,34,25,47,22,32,32,46,34,41,30,41,34,41,28,36,42,30,38,23,35,28,30,22,37,31,47,29,30,39,40,41,36,31,55,31,52,28,35,24,30,38,26,37,26,36,38,30,31,31,32,30,39,21,37,44,31,33,26,25,25,33,25,37,37,34,32,38,41,31,30,21,42,42,30,64,52,25,36,32,55,35,23,30,34,35,33,47,54,23,29,31,47,39,32,52,44,37,36,32,25,32,37,36,32,22,42,31,30,28,26,32,47,38,44,63,28,25,50,29,34,40,27,24,40,32,30,30,36,28,28,31,33,37,36,23,21,21,32,26,36,23,35,38,45,38,20,30,35,35,35,27,39,26,25,32,32,35,19,38,38,33,22,21,36,17,38,23,32,29,34,47,43,25,27,41,34,36,32,20,27,32,30,25,35,27,38,44,37,37,23,24,33,30,31,37,24,20,35,31,32,32,28,70,37,39,34,34,33,40,25,26,53,49,45,46,40,39,30,24,31,34,29,34,31,34,30,28,48,27,29,30,36,38,34,38,23,34,27,30,29,34,32,32,25,29,38,30,44,28,39,37,53,40,44,26,26,36,44,63,43,36,23,52,28,31,24,44,44,45,17,32,26,28,28,28,35,40,17,31,46,60,28,34,22,33,40,30,60,25,33,33,34,26,25,30,37,26,34,32,31,35,26,28,35,37,35,36,30,36,32,19,27,22,24,37,36,37,27,48,41,30,29,25,36,29,35,19,35,25,46,24,32,18,25,54,30,36,32,36,31,35,33,37,30,32,46,35,23,31,25,27,36,40,38,49,26,21,29,18,45,31,39,20,30,28,33,35,31,27,31,32,32,30,25,26,28,22,34,38,30,23,31,34,23,42,30,21,36],"marker":{"color":"lightgray","size":3,"alpha":0.5,"line":{"color":"gray","width":2}},"type":"scatter3d","mode":"markers","error_y":{"color":"rgba(31,119,180,1)"},"error_x":{"color":"rgba(31,119,180,1)"},"line":{"color":"rgba(31,119,180,1)"},"frame":null}],"highlight":{"on":"plotly_click","persistent":false,"dynamic":false,"selectize":false,"opacityDim":0.2,"selected":{"opacity":1},"debounce":0},"shinyEvents":["plotly_hover","plotly_click","plotly_selected","plotly_relayout","plotly_brushed","plotly_brushing","plotly_clickannotation","plotly_doubleclick","plotly_deselect","plotly_afterplot","plotly_sunburstclick"],"base_url":"https://plot.ly"},"evals":[],"jsHooks":[]}</script>
 
 
 
